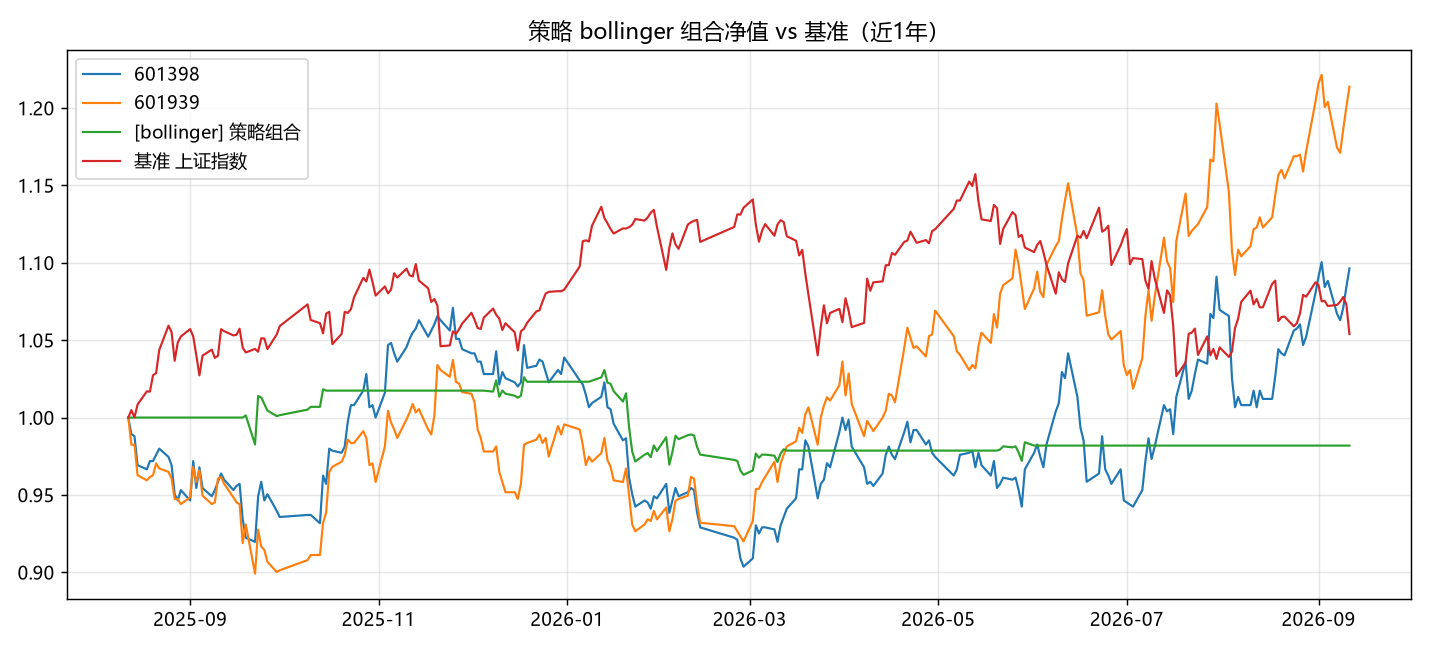
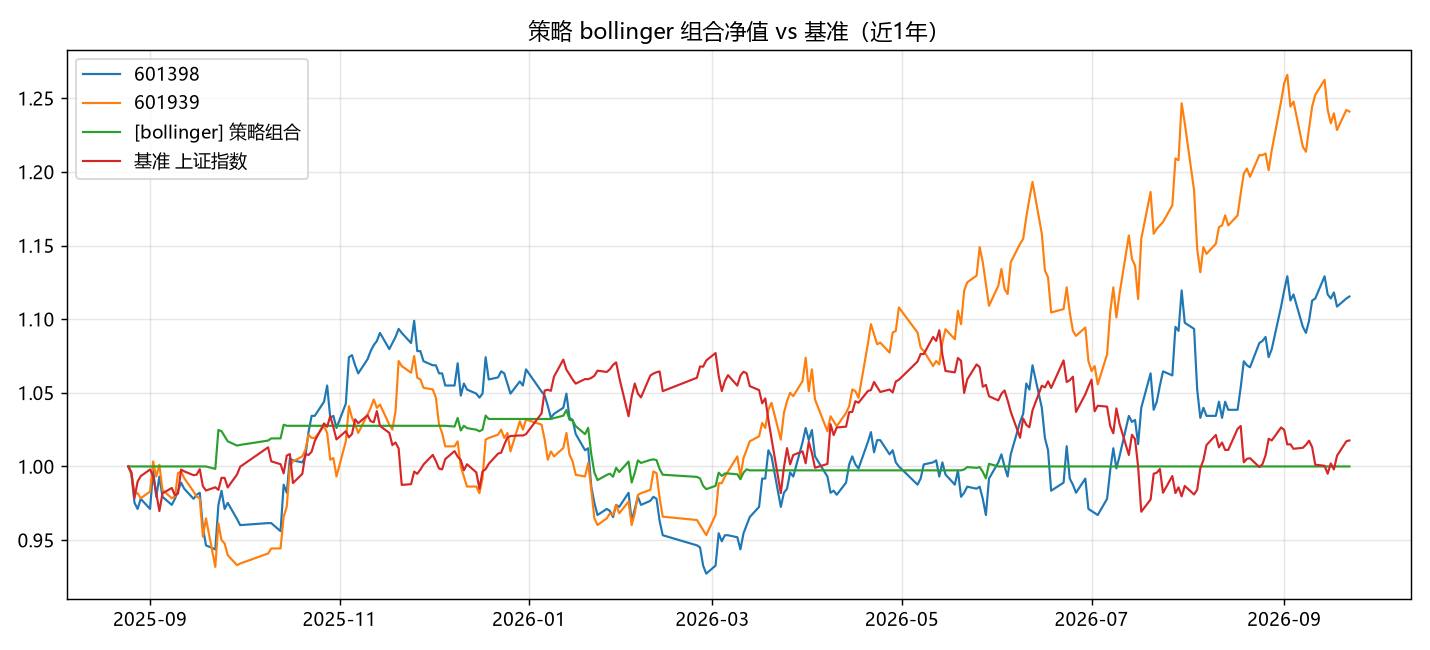
feat: add basic risk controls

diff --git a/src/ai_stock/backtest.py b/src/ai_stock/backtest.py
@@ -16,6 +16,25 @@ STAMP_TAX = 5e-4      # 印花税 0.05%（卖出单边）
 SLIPPAGE = 1e-3       # 滑点 0.1%
 
 
+@dataclass(frozen=True)
+class RiskConfig:
+    """基础风险参数，比例均使用 0~1 小数。"""
+    max_position_pct: float = 0.8
+    stop_loss_pct: float = 0.08
+    take_profit_pct: float = 0.2
+    max_drawdown_pct: float = 0.2
+
+    def __post_init__(self) -> None:
+        values = (
+            self.max_position_pct,
+            self.stop_loss_pct,
+            self.take_profit_pct,
+            self.max_drawdown_pct,
+        )
+        if not all(0 < value <= 1 for value in values):
+            raise ValueError("风险参数必须位于 (0, 1] 区间")
+
+
 @dataclass
 class Trade:
     """一条已成交记录。"""
@@ -25,6 +44,7 @@ class Trade:
     shares: int
     amount: float
     fee: float
+    reason: str = "signal"
 
 
 @dataclass
@@ -35,6 +55,7 @@ class BacktestResult:
     equity: pd.Series  # 每日净值（初始 1.0）
     trades: list[Trade] = field(default_factory=list)
     buy_hold: Optional[pd.Series] = None
+    risk_halted: bool = False
 
 
 def run_backtest(
@@ -44,6 +65,7 @@ def run_backtest(
     commission: float = COMMISSION,
     stamp_tax: float = STAMP_TAX,
     slippage: float = SLIPPAGE,
+    risk: Optional[RiskConfig] = None,
 ) -> BacktestResult:
     """逐日模拟：昨日收盘信号 → 今日开盘成交。
 
@@ -52,7 +74,8 @@ def run_backtest(
     初始资金默认 100 万：A股按手(100股)交易，高价股(如茅台~1600元/股)
     一手即 16 万，资金不足会永远买不进（曾因 10 万资金导致 0 交易）。
     """
-    # 修改说明：收盘信号统一延迟一个交易日，在下一交易日开盘执行。
+    # 修改说明：增加仓位、止损止盈和回撤熔断，并为买入佣金预留现金。
+    risk = risk or RiskConfig()
     executed_signal = signal.reindex(df.index).shift(1).fillna(0).astype(int)
     cash = initial_cash
     shares = 0
@@ -60,53 +83,86 @@ def run_backtest(
     trades: list[Trade] = []
     equity_list: list[float] = []
     prev_close: Optional[float] = None
+    entry_price: Optional[float] = None
+    peak_equity = initial_cash
+    risk_halted = False
 
     for ts, row in df.iterrows():
         open_p = float(row["open"])
+        high_p = float(row["high"])
+        low_p = float(row["low"])
         close_p = float(row["close"])
         target = int(executed_signal.loc[ts])
+        equity_at_open = cash + shares * open_p
+        if equity_at_open / peak_equity - 1 <= -risk.max_drawdown_pct:
+            risk_halted = True
         limit_up = limit_down = False
         if prev_close is not None and prev_close > 0:
             limit_up = open_p >= prev_close * 1.098  # 近似涨停(10%口径)
             limit_down = open_p <= prev_close * 0.902  # 近似跌停
 
-        # ---- 卖出：目标空仓且持有，非跌停，且非买入当日(T+1) ----
-        if target == 0 and shares > 0 and not limit_down:
-            if buy_date is None or ts > buy_date:
-                px = open_p * (1 - slippage)
+        sold_today = False
+        can_sell = shares > 0 and not limit_down and (buy_date is None or ts > buy_date)
+        exit_price: Optional[float] = None
+        exit_reason = "signal"
+        if can_sell and risk_halted:
+            exit_price = open_p
+            exit_reason = "max_drawdown"
+        elif can_sell and entry_price is not None:
+            stop_price = entry_price * (1 - risk.stop_loss_pct)
+            take_price = entry_price * (1 + risk.take_profit_pct)
+            if low_p <= stop_price:
+                exit_price = min(open_p, stop_price)
+                exit_reason = "stop_loss"
+            elif high_p >= take_price:
+                exit_price = max(open_p, take_price)
+                exit_reason = "take_profit"
+        if can_sell and exit_price is None and target == 0:
+            exit_price = open_p
+
+        if exit_price is not None:
+                px = exit_price * (1 - slippage)
                 amount = px * shares
                 fee = amount * (commission + stamp_tax)
                 cash += amount - fee
-                trades.append(Trade(ts, "sell", px, shares, amount, fee))
+                trades.append(Trade(ts, "sell", px, shares, amount, fee, exit_reason))
                 shares = 0
                 buy_date = None
+                entry_price = None
+                sold_today = True
 
         # ---- 买入：目标持仓且空仓，非涨停 ----
-        if target == 1 and shares == 0 and not limit_up and cash > 0:
+        if (target == 1 and shares == 0 and not limit_up and cash > 0
+                and not risk_halted and not sold_today):
             px = open_p * (1 + slippage)
-            buyable = int(cash / (px * 100)) * 100  # 按手(100股)取整
+            position_budget = min(cash / (1 + commission),
+                                  equity_at_open * risk.max_position_pct)
+            buyable = int(position_budget / (px * 100)) * 100
             if buyable > 0:
                 amount = px * buyable
                 fee = amount * commission
                 cash -= amount + fee
                 shares = buyable
                 buy_date = ts
-                trades.append(Trade(ts, "buy", px, buyable, amount, fee))
+                entry_price = px
+                trades.append(Trade(ts, "buy", px, buyable, amount, fee, "entry"))
 
         equity = cash + shares * close_p
         equity_list.append(equity)
+        peak_equity = max(peak_equity, equity)
         prev_close = close_p
 
     equity = pd.Series(equity_list, index=df.index) / initial_cash
     buy_hold = df["close"] / df["close"].iloc[0]
     return BacktestResult(code="", strategy="", equity=equity,
-                          trades=trades, buy_hold=buy_hold)
+                          trades=trades, buy_hold=buy_hold,
+                          risk_halted=risk_halted)
 
 
 def portfolio_backtest(
     frames: dict[str, pd.DataFrame],
     signal_map: dict[str, pd.Series],
-    **kwargs,
+    risk: Optional[RiskConfig] = None,
 ) -> tuple[pd.Series, list[Trade]]:
     """等权组合：先对每只股票做资金归一化回测，再按日取均值。
 
@@ -117,7 +173,7 @@ def portfolio_backtest(
     for code, df in frames.items():
         if code not in signal_map:
             continue
-        res = run_backtest(df, signal_map[code], **kwargs)
+        res = run_backtest(df, signal_map[code], risk=risk)
         curves.append(res.equity)
         trades.extend(res.trades)
     if not curves:

diff --git a/tests/test_backtest.py b/tests/test_backtest.py
@@ -5,7 +5,7 @@ import unittest
 
 import pandas as pd
 
-from ai_stock.backtest import Trade, run_backtest, trade_win_rate
+from ai_stock.backtest import RiskConfig, Trade, run_backtest, trade_win_rate
 from ai_stock.strategy import bollinger, ma_cross, momentum
 
 
@@ -43,6 +43,63 @@ class BacktestTest(unittest.TestCase):
         for function in (ma_cross, momentum, bollinger):
             values = set(function(self.frame).unique())
             self.assertTrue(values <= {0, 1})
+
+    def test_buy_reserves_commission_and_obeys_position_cap(self) -> None:
+        signal = pd.Series(1, index=self.frame.index)
+        risk = RiskConfig(max_position_pct=0.5)
+        result = run_backtest(self.frame, signal, risk=risk, slippage=0)
+        buy = result.trades[0]
+        self.assertLessEqual(buy.amount, 500_000)
+        self.assertLessEqual(buy.amount + buy.fee, 1_000_000)
+
+    def test_stop_loss_closes_position(self) -> None:
+        frame = self.frame.iloc[:4].copy()
+        frame.loc[:, ["open", "close", "high", "low"]] = 100.0
+        frame.iloc[2, frame.columns.get_loc("low")] = 90.0
+        signal = pd.Series(1, index=frame.index)
+        risk = RiskConfig(stop_loss_pct=0.05)
+        result = run_backtest(frame, signal, risk=risk,
+                              commission=0, stamp_tax=0, slippage=0)
+        sells = [trade for trade in result.trades if trade.side == "sell"]
+        self.assertEqual(sells[0].reason, "stop_loss")
+        self.assertEqual(sells[0].price, 95.0)
+
+    def test_take_profit_closes_position(self) -> None:
+        frame = self.frame.iloc[:4].copy()
+        frame.loc[:, ["open", "close", "high", "low"]] = 100.0
+        frame.iloc[2, frame.columns.get_loc("high")] = 125.0
+        signal = pd.Series(1, index=frame.index)
+        risk = RiskConfig(take_profit_pct=0.2)
+        result = run_backtest(frame, signal, risk=risk,
+                              commission=0, stamp_tax=0, slippage=0)
+        sells = [trade for trade in result.trades if trade.side == "sell"]
+        self.assertEqual(sells[0].reason, "take_profit")
+        self.assertEqual(sells[0].price, 120.0)
+
+    def test_max_drawdown_halts_new_entries(self) -> None:
+        frame = self.frame.iloc[:5].copy()
+        frame.loc[:, ["open", "close", "high", "low"]] = 100.0
+        frame.iloc[2, frame.columns.get_loc("open")] = 75.0
+        frame.iloc[2, frame.columns.get_loc("close")] = 75.0
+        frame.iloc[2, frame.columns.get_loc("high")] = 75.0
+        frame.iloc[2, frame.columns.get_loc("low")] = 75.0
+        frame.iloc[3, frame.columns.get_loc("open")] = 75.0
+        frame.iloc[3, frame.columns.get_loc("close")] = 75.0
+        frame.iloc[3, frame.columns.get_loc("high")] = 75.0
+        frame.iloc[3, frame.columns.get_loc("low")] = 75.0
+        signal = pd.Series(1, index=frame.index)
+        risk = RiskConfig(max_drawdown_pct=0.15)
+        result = run_backtest(frame, signal, risk=risk,
+                              commission=0, stamp_tax=0, slippage=0)
+        buys = [trade for trade in result.trades if trade.side == "buy"]
+        sells = [trade for trade in result.trades if trade.side == "sell"]
+        self.assertTrue(result.risk_halted)
+        self.assertEqual(len(buys), 1)
+        self.assertEqual(sells[0].reason, "max_drawdown")
+
+    def test_invalid_risk_config_is_rejected(self) -> None:
+        with self.assertRaises(ValueError):
+            RiskConfig(max_position_pct=0)
 
 
 if __name__ == "__main__":

diff --git a/src/ai_stock/main.py b/src/ai_stock/main.py
@@ -49,9 +49,10 @@ def _load_pool(args: argparse.Namespace) -> list:
 
 
 def _run_strategy(code: str, name: str, df: pd.DataFrame,
-                  strat_name: str, bench: pd.Series) -> dict:
+                  strat_name: str, bench: pd.Series,
+                  risk: backtest.RiskConfig) -> dict:
     signal = strategy.STRATEGIES[strat_name](df)
-    res = backtest.run_backtest(df, signal)
+    res = backtest.run_backtest(df, signal, risk=risk)
     res.code = code
     res.strategy = strat_name
     perf = backtest.performance(res.equity, bench, trades=res.trades)
@@ -83,7 +84,22 @@ def main() -> int:
     ap.add_argument("--strategies", default="ma_cross,momentum,bollinger",
                     help="逗号分隔策略名")
     ap.add_argument("--pool-file", default="", help="手动股票池CSV(code,name)")
+    ap.add_argument("--max-position", type=float, default=0.8, help="单标的仓位上限")
+    ap.add_argument("--stop-loss", type=float, default=0.08, help="止损比例")
+    ap.add_argument("--take-profit", type=float, default=0.2, help="止盈比例")
+    ap.add_argument("--max-drawdown", type=float, default=0.2, help="最大回撤熔断比例")
     args = ap.parse_args()
+
+    try:
+        risk = backtest.RiskConfig(
+            max_position_pct=args.max_position,
+            stop_loss_pct=args.stop_loss,
+            take_profit_pct=args.take_profit,
+            max_drawdown_pct=args.max_drawdown,
+        )
+    except ValueError as exc:
+        print(f"风险参数错误: {exc}")
+        return 2
 
     OUT_DIR.mkdir(exist_ok=True, parents=True)
     strat_list = [s.strip() for s in args.strategies.split(",") if s.strip()]
@@ -96,6 +112,8 @@ def main() -> int:
     if not pool:
         print("股票池为空，退出")
         return 1
+    if not args.pool_file:
+        print("[提示] 自动筛选使用当前 PE/市值，仅适合演示；严谨历史回测请传入固定股票池。")
 
     print(f"[行情] 拉取 {len(pool)} 只股票近 {args.years} 年前复权日K...")
     frames = fetch.fetch_pool_kline(pool, years=args.years)
@@ -120,12 +138,12 @@ def main() -> int:
         for code, df in frames.items():
             st = next((x for x in pool if x.code == code), None)
             name = st.name if st else code
-            row = _run_strategy(code, name, df, strat_name, bench)
+            row = _run_strategy(code, name, df, strat_name, bench, risk)
             rows.append(row)
         # 组合回测
         signal_map = {c: strategy.STRATEGIES[strat_name](df)
                       for c, df in frames.items()}
-        port, port_trades = backtest.portfolio_backtest(frames, signal_map)
+        port, port_trades = backtest.portfolio_backtest(frames, signal_map, risk=risk)
         perf_p = backtest.performance(port, bench, trades=port_trades)
         print(f"  [组合等权] 总收益 {perf_p['总收益率']}% | "
               f"回撤 {perf_p['最大回撤']}% | 胜率 {perf_p['胜率']}% | "

diff --git a/README.md b/README.md
@@ -9,6 +9,7 @@
 - 公开数据：东方财富 A 股列表和历史 K 线，腾讯历史 K 线作为备用源
 - 策略：双均线、20 日动量、布林带均值回归
 - 回测：下一交易日开盘成交，模拟 A 股 100 股整数手、T+1、佣金、印花税和滑点
+- 风控：单标的仓位上限、止损、止盈和最大回撤熔断
 - 指标：总收益率、年化收益率、最大回撤、胜率、夏普比率和相对上证指数收益
 - 输出：`output/report.csv` 与各策略净值图，运行日志写入 `logs/ai_stock.log`
 
@@ -18,6 +19,12 @@
 
 ```bash
 bash scripts/run.sh --pool-size 8 --years 5
+```
+
+默认风险参数为 80% 仓位上限、8% 止损、20% 止盈和 20% 最大回撤熔断，可按需覆盖：
+
+```bash
+bash scripts/run.sh --max-position 0.6 --stop-loss 0.06 --take-profit 0.15 --max-drawdown 0.15
 ```
 
 指定股票池时，CSV 至少包含 `code` 列，可选 `name` 列：
@@ -47,6 +54,8 @@ bash scripts/test.sh
 | `bollinger` | 跌破 20 日布林下轨买入，回到中轨上方卖出 |
 
 所有信号在当日收盘后生成，并延迟到下一交易日开盘执行，以避免前视偏差。胜率按“盈利的已平仓交易数 ÷ 已平仓交易总数”计算。
+
+自动选股使用运行当日的 PE 和市值，只适合演示完整流程，不能用于证明历史选股有效。严谨历史回测应使用 `--pool-file` 提供事先固定的股票池，后续版本再接入历史成分股和历史财务数据。
 
 ## 项目结构
 

diff --git a/discuss/第一阶段回测可信度与风控方案.md b/discuss/第一阶段回测可信度与风控方案.md
@@ -1,0 +1,23 @@
+# 第一阶段：回测可信度与基础风控方案
+
+## 目标
+
+在进入因子工程和机器学习前，先保证基础回测不会因资金透支、前视选股或缺少风险约束而产生明显失真。
+
+## 本阶段范围
+
+1. 买入股数预留佣金，保证现金不会因手续费变成负数。
+2. 增加单标的仓位上限、止损、止盈和最大回撤熔断。
+3. 保留收盘生成信号、下一交易日执行和 A 股 T+1 约束。
+4. 明确实时 PE、市值筛选得到的是“当前股票池”，历史回测推荐传入固定股票池；历史时点选股留待引入历史成分股和历史财务数据后实现。
+
+## 验收标准
+
+- 买入金额加佣金不超过可用资金。
+- 仓位不超过配置比例。
+- 止损、止盈和最大回撤触发行为有自动测试。
+- 原有三种策略测试继续通过，真实公开行情可完成一次小规模回测。
+
+## 后续边界
+
+下一阶段再设计因子数据结构、横截面排名、时间滚动验证和机器学习模型，本阶段不新增依赖。
